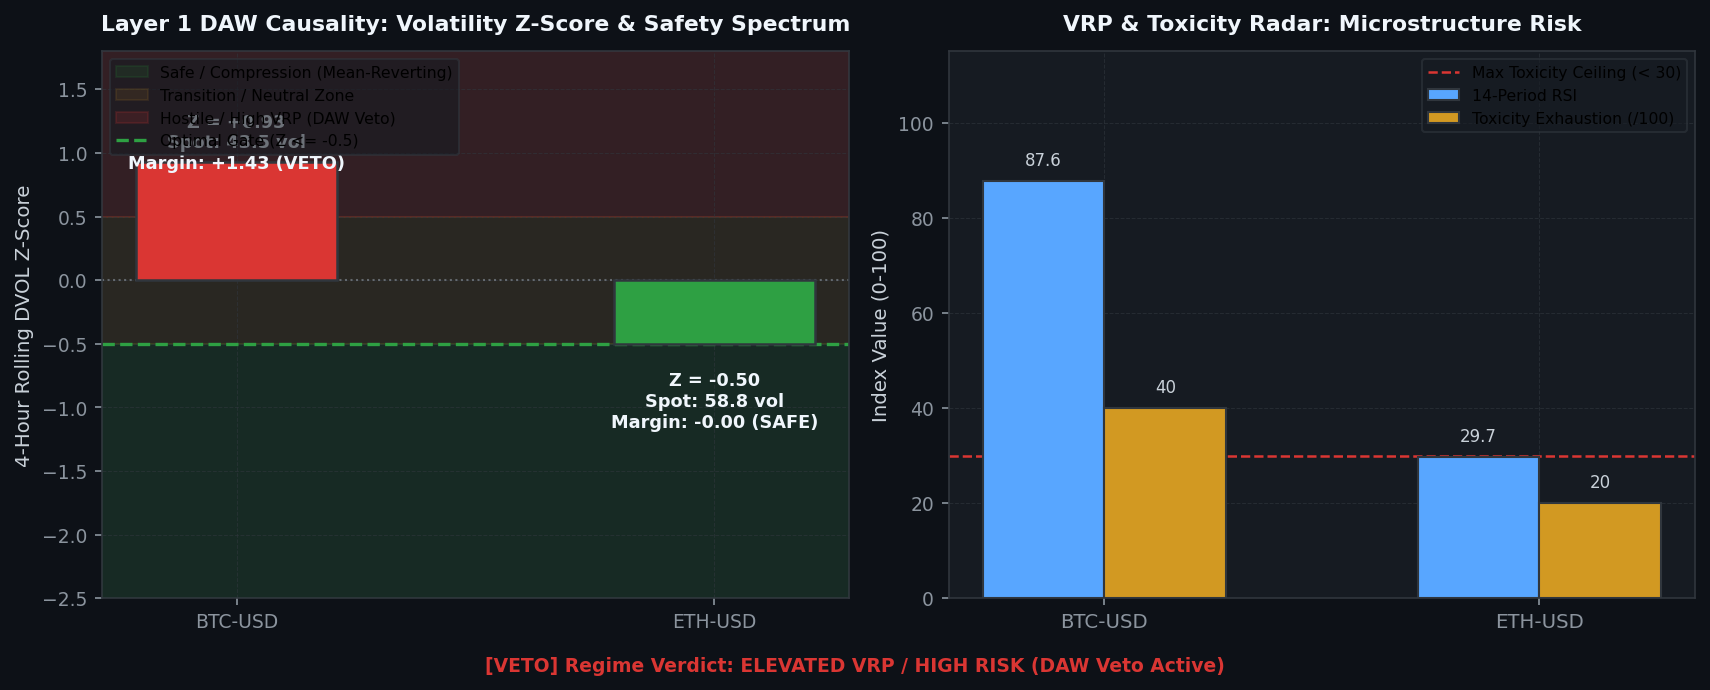
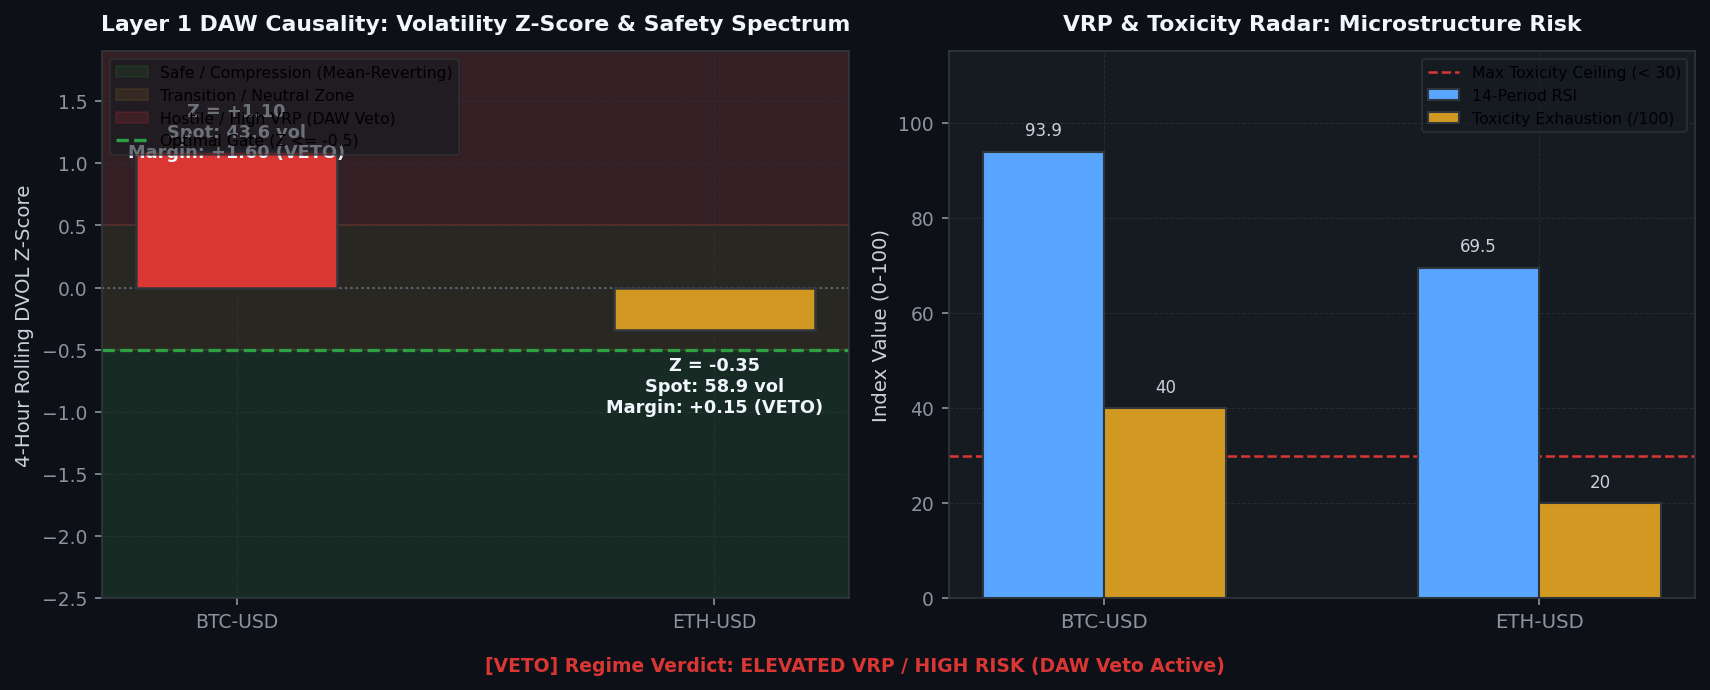
[coinbase] Hourly Status & Visual Intelligence Update: 2026-08-24 03:06:20

diff --git a/coinbase/data/hourly_status_report.md b/coinbase/data/hourly_status_report.md
@@ -3,7 +3,7 @@ layout: default
 ---
 
 # 🛡 Unified Trading System Hourly Status & Visual Intelligence
-> **Report Generated**: `2026-08-24 03:00:02 AM PDT (2026-08-24 10:00:02 UTC)`  
+> **Report Generated**: `2026-08-24 03:06:03 AM PDT (2026-08-24 10:06:03 UTC)`  
 > **System Health**: **🟡 DEGRADED / RESTRICTED** | **Win Rate**: `0.0%` | **Completed Trades**: `0`
 
 
@@ -15,13 +15,13 @@ Real-time Deribit implied volatility (DVOL) proxy tracking against mathematicall
 
 | Symbol | Proxy Oracle | Live Z-Score | Optimal Limit (YSP) | Safety Margin | Live VRP | Optimal VRP (YSP) | DAW Safety Verdict |
 | :--- | :--- | :--- | :--- | :--- | :--- | :--- | :--- |
-| `AVAX-USD` | DVOL_BTC | **+0.93** | **-0.50** | **+1.43** | **+2.76** | 5.0 | 🔴 DAW VETOED |
-| `ETH-USD` | DVOL_ETH | **-0.49** | **-0.50** | **+0.01** | **+18.02** | 5.0 | 🔴 DAW VETOED |
-| `ADA-USD` | DVOL_BTC | **+0.93** | **-0.50** | **+1.43** | **+2.44** | 5.0 | 🔴 DAW VETOED |
-| `DOGE-USD` | DVOL_BTC | **+0.93** | **-0.50** | **+1.43** | **+2.81** | 5.0 | 🔴 DAW VETOED |
-| `BTC-USD` | DVOL_BTC | **+0.93** | **-0.50** | **+1.43** | **+2.76** | 5.0 | 🔴 DAW VETOED |
-| `LINK-USD` | DVOL_BTC | **+0.93** | **-0.50** | **+1.43** | **+2.53** | 5.0 | 🔴 DAW VETOED |
-| `SOL-USD` | DVOL_BTC | **+0.93** | **-0.50** | **+1.43** | **+2.76** | 5.0 | 🔴 DAW VETOED |
+| `AVAX-USD` | DVOL_BTC | **+1.10** | **-0.50** | **+1.60** | **+5.22** | 5.0 | 🔴 DAW VETOED |
+| `ETH-USD` | DVOL_ETH | **-0.35** | **-0.50** | **+0.15** | **+20.54** | 5.0 | 🔴 DAW VETOED |
+| `ADA-USD` | DVOL_BTC | **+1.10** | **-0.50** | **+1.60** | **+5.17** | 5.0 | 🔴 DAW VETOED |
+| `DOGE-USD` | DVOL_BTC | **+1.10** | **-0.50** | **+1.60** | **+5.22** | 5.0 | 🔴 DAW VETOED |
+| `BTC-USD` | DVOL_BTC | **+1.10** | **-0.50** | **+1.60** | **+5.22** | 5.0 | 🔴 DAW VETOED |
+| `LINK-USD` | DVOL_BTC | **+1.10** | **-0.50** | **+1.60** | **+5.22** | 5.0 | 🔴 DAW VETOED |
+| `SOL-USD` | DVOL_BTC | **+1.10** | **-0.50** | **+1.60** | **+5.22** | 5.0 | 🔴 DAW VETOED |
 
 
 
@@ -37,12 +37,12 @@ We hereby certify that the mission-critical algorithmic data assets uploaded by 
 
 | Status | Data Asset | Freshness / State | Details / Timestamp |
 | :---: | :--- | :--- | :--- |
-| ✅ | **Go-List JSON** | Fresh (1.98h old) | 08-24 01:01 |
-| ✅ | **TimesFM Forecasts** | Fresh (1.79h old) | 08-24 01:12 |
-| ✅ | **Holding Times config** | Fresh (1.78h old) | 08-24 01:13 |
-| ✅ | **BTC DVOL Cache** | Fresh (0.00h old) | 08-24 03:00 |
-| ✅ | **ETH DVOL Cache** | Fresh (0.01h old) | 08-24 02:59 |
-| ✅ | **Live Trading Telemetry** | Fresh (0.01h old) | 08-24 02:59 |
+| ✅ | **Go-List JSON** | Fresh (2.08h old) | 08-24 01:01 |
+| ✅ | **TimesFM Forecasts** | Fresh (1.89h old) | 08-24 01:12 |
+| ✅ | **Holding Times config** | Fresh (1.88h old) | 08-24 01:13 |
+| ✅ | **BTC DVOL Cache** | Fresh (0.00h old) | 08-24 03:05 |
+| ✅ | **ETH DVOL Cache** | Fresh (0.00h old) | 08-24 03:06 |
+| ✅ | **Live Trading Telemetry** | Fresh (0.00h old) | 08-24 03:06 |
 
 <br>
 
@@ -55,7 +55,7 @@ Layer-by-layer tick evaluation waterfall and asset-specific performance tracking
 
 | Funnel Filter Layer | Total Rejections | % of Rejections |
 | :--- | :--- | :--- |
-| Tier 1: Macro Volatility Tensor Gate (Omega_macro) | `31,972` | **100.0%** |
+| Tier 1: Macro Volatility Tensor Gate (Omega_macro) | `32,070` | **100.0%** |
 | Tier 2: Unified Transport & Directional Engine | `0` | **0.0%** |
 | Tier 3: Continuous Hawkes-SFGK Pricer (HAS-Pricer) | `0` | **0.0%** |
 | System: Asset Cooldown Active | `0` | **0.0%** |
@@ -86,15 +86,13 @@ Live balance sheet and open maker liquidity positions from Coinbase CDP.
 | Product | Side | Limit Price | Order ID |
 | :--- | :--- | :--- | :--- |
 | `ACH-USD` | SELL | 0.005507 | `a0d2e243-42b4-4df5-bd23-118f45998df8` |
+| `ADA-USD` | SELL | 0.22113 | `89aa91db-b86c-4d13-9ccb-aebff799e2d2` |
 | `DOGE-USD` | SELL | 0.09287 | `07f5c08a-d2c0-4ed8-91a5-7946d105e783` |
 | `ETH-USD` | BUY | 2458.2 | `0a5f4178-5e26-4466-ba8c-e40c06dfb04e` |
 | `AVAX-USD` | SELL | 7.527 | `5ec835ef-6851-4caa-8317-dac66b8ca8b4` |
 | `ADA-USD` | SELL | 0.22217 | `9d9bf6ba-ac1e-4fbd-9aa5-75f43c2055b7` |
 | `DOGE-USD` | SELL | 0.09253 | `28bfb61f-0f3c-4db6-8491-2a372aee225f` |
-| `LINK-USD` | SELL | 11.627 | `d20a42b0-2581-40a4-a299-c9adb98b0c74` |
 | `AVAX-USD` | BUY | 7.468 | `cd862227-adbf-41ad-bc6c-4f8842cbd756` |
-| `DOGE-USD` | BUY | 0.09103 | `983cfc2c-56df-413d-9db9-c0a54e7826f4` |
-| `ADA-USD` | BUY | 0.21967 | `535de8ed-47c4-44c1-be97-091ebd357cfb` |
 
 
 
@@ -102,14 +100,14 @@ Live balance sheet and open maker liquidity positions from Coinbase CDP.
 ## 4. 🤖 Foundation Model MLOps & Pipeline Orchestration
 Weekly Algorithmic Mega Cap selection, Zero-shot multi-step forward return forecasts, and VSTEF parameter grid search status.
 
-- **TimesFM Forecast DB**: 🟢 Updated 1.8h ago (2026-08-24 01:12 AM PDT)
+- **TimesFM Forecast DB**: 🟢 Updated 1.9h ago (2026-08-24 01:12 AM PDT)
 - **Last Weekly VSTEF Optimization**: `2026-08-24 01:12:31 AM PDT`
-- **Next Scheduled VSTEF Run**: `2026-08-30 07:00:00 PM PDT (Monday 02:00 UTC)` (Countdown: **160.0h (6d 15h 59m)**)
+- **Next Scheduled VSTEF Run**: `2026-08-30 07:00:00 PM PDT (Monday 02:00 UTC)` (Countdown: **159.9h (6d 15h 53m)**)
 - **Promoted Parameter Gates**: $Z_{DVOL} \le -0.5$ | Holding Horizon $= 12\text{h}$
 
 ### Algorithmic Mega Cap Selection
 - **Last Run (Confirmation)**: `2026-08-24 01:01:26 AM PDT`
-- **Next Scheduled Run**: `2026-08-30 06:00:00 PM PDT (Monday 01:00 UTC)` (Countdown: **159.0h (6d 14h 59m)**)
+- **Next Scheduled Run**: `2026-08-30 06:00:00 PM PDT (Monday 01:00 UTC)` (Countdown: **158.9h (6d 14h 53m)**)
 - **Selected Mega Cap Universe**: `BTC, ETH, DOGE, SUI, XRP, SOL, ZEC`
 
 
@@ -123,19 +121,19 @@ Visualizing the impact of the VSTEF (Volatility-Synchronized Stop-Tightening Exe
 ## 5. 🖥 Multi-Node Infrastructure & Watchdog Matrix
 ```text
 ================================================================================
-   🛡  SFGK FUNNEL GUARDIAN WATCHDOG (HFT ONLY) |  09:59:59 AM
-   CPU:  16.1%  |  MEM:   7.2% (14.3GB / 15.4GB Free)
+   🛡  SFGK FUNNEL GUARDIAN WATCHDOG (HFT ONLY) |  10:05:59 AM
+   CPU:  10.9%  |  MEM:   5.8% (14.5GB / 15.4GB Free)
 ================================================================================
 SERVICE              | PID      | STATUS          | RESTARTS | INFO
 --------------------------------------------------------------------------------
 L3 Consumer          | 2074784  | RUNNING         | -        | Continuous Websocket Feed
-Trader AVAX-USD      | 2085030  | COOL-DOWN       | 33       | Next run in 14.7s
-Trader ETH-USD       | 2085031  | COOL-DOWN       | 33       | Next run in 14.7s
-Trader ADA-USD       | 2084170  | RUNNING         | 19       | Evaluating Funnel/Polling Order
-Trader DOGE-USD      | 2083727  | RUNNING         | 17       | Evaluating Funnel/Polling Order
-Trader BTC-USD       | 2085032  | COOL-DOWN       | 33       | Next run in 14.7s
-Trader LINK-USD      | 2083220  | COOL-DOWN       | 21       | Next run in 3.6s
-Trader SOL-USD       | 2085033  | COOL-DOWN       | 33       | Next run in 14.7s
+Trader AVAX-USD      | 2090215  | COOL-DOWN       | 49       | Next run in 4.1s
+Trader ETH-USD       | 2090216  | COOL-DOWN       | 49       | Next run in 4.1s
+Trader ADA-USD       | 2089282  | RUNNING         | 29       | Evaluating Funnel/Polling Order
+Trader DOGE-USD      | 2090248  | COOL-DOWN       | 32       | Next run in 9.5s
+Trader BTC-USD       | 2090217  | COOL-DOWN       | 49       | Next run in 4.1s
+Trader LINK-USD      | 2090218  | COOL-DOWN       | 32       | Next run in 4.1s
+Trader SOL-USD       | 2090219  | COOL-DOWN       | 49       | Next run in 4.1s
 ================================================================================
 ```
 

diff --git a/coinbase/data/visual_intelligence.md b/coinbase/data/visual_intelligence.md
@@ -4,7 +4,7 @@ title: Visual Intelligence Gallery
 ---
 
 # 📈 Visual Intelligence Gallery
-> **Generated:** `2026-08-24 03:00:20`
+> **Generated:** `2026-08-24 03:06:20`
 > **[Return to Main Status Report](./hourly_status_report.html)**
 
 This page visualizes the internal states, market profiles, and decision criteria of the active **3-Tier Fused Decision Engine** across all layers.
